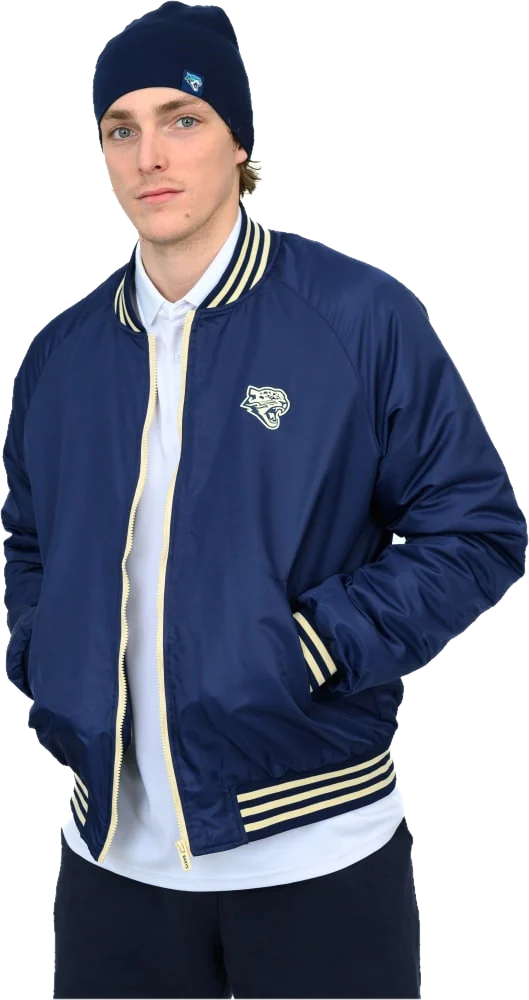
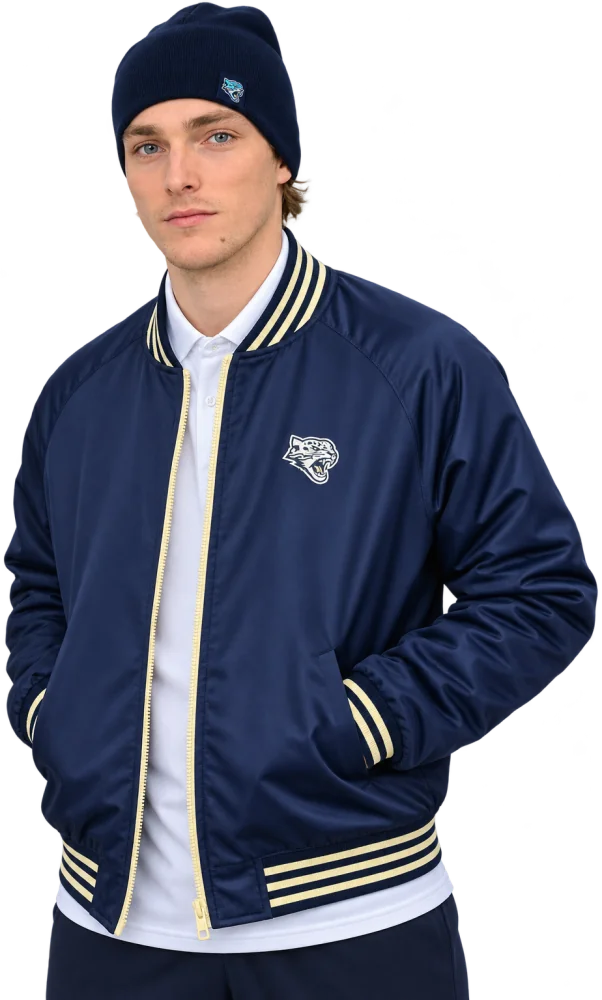
feat: new product photo cutouts; puck and home jersey use photos
- Replace cap, bomber, down jacket and shopping-bag cutouts with the new
  shots (trimmed to the subject, long side 1000 px, WebP q85, lossless alpha);
  PH holds the new pixel sizes.
- Wire new photos: home jersey 25/26 (navy) and both pucks. The signed puck
  keeps its autograph strokes, drawn over the photo.
- Re-aim design-card callouts to the new framing.
- Collection 25/26: drop the second cap card (03); grid is now
  cap + bomber, bag + down jacket, renumbered 01-04.
- Card swatches: the selected ring lines up with the title and price.
- Remove the unused originals in assets/ph/*.jpg.

diff --git a/index.html b/index.html
@@ -518,13 +518,14 @@ html[lang="kk"] .hero-title{font-size:min(64px,8.6cqi)}
 .card-rating{align-items:center;gap:6px}
 .card-rating .ic{width:14px;height:14px;fill:currentColor;stroke:none}
 .card-rating b{font-weight:600;color:var(--text-1)}
-.swatches{display:flex;align-items:center;height:20px;margin-left:-5px}
+/* the selected ring (1.5px outline + 2px offset) lines up with the text: hit-area inset minus 3.5px */
+.swatches{display:flex;align-items:center;height:20px;margin-left:-1.5px}
 .sw{position:relative;width:20px;height:20px;display:grid;place-items:center;border-radius:50%}
 .sw::before{content:"";width:10px;height:10px;border-radius:50%;background:var(--c);box-shadow:inset 0 0 0 1px var(--border)}
 .sw[aria-pressed="true"]::before{outline:1.5px solid var(--text-1);outline-offset:2px}
 .sw-more{margin-left:var(--sp-1);font-size:var(--fs-1);color:var(--text-2)}
 /* touch: same 10px dot, 32px tap area */
-@media (pointer:coarse){.swatches{height:32px;margin-left:-11px}.sw{width:32px;height:32px}}
+@media (pointer:coarse){.swatches{height:32px;margin-left:-7.5px}.sw{width:32px;height:32px}}
 .card-foot{display:flex;align-items:center;justify-content:space-between;gap:var(--sp-2)}
 .price{display:flex;align-items:baseline;flex-wrap:wrap;gap:0 var(--sp-2)}
 .price b{font-size:var(--fs-2);font-weight:600;font-variant-numeric:tabular-nums;white-space:nowrap}
@@ -615,26 +616,11 @@ html[lang="kk"] .hero-title{font-size:min(64px,8.6cqi)}
 .dc-cap1 .dc-shot::after{content:"";position:absolute;z-index:-1;left:12%;right:6%;bottom:-10%;height:16%;border-radius:50%;background:radial-gradient(closest-side,rgba(0,6,20,.6),transparent)}
 
 /* 02 bomber: fashion editorial. Deep navy, softbox from above, VARSITY set vertical */
-.dc-bomber{grid-row:span 2;background:linear-gradient(160deg,#103472 0%,#061A3F 55%,#030D22 100%)}
+.dc-bomber{background:linear-gradient(160deg,#103472 0%,#061A3F 55%,#030D22 100%)}
 .dc-bomber .fx-softbox{right:-35%;top:-22%;width:100%;aspect-ratio:1;border-radius:50%;background:radial-gradient(closest-side,rgba(207,224,243,.32),transparent)}
 .dc-bomber .fx-word{left:var(--sp-4);top:var(--sp-5);writing-mode:vertical-rl;transform:rotate(180deg);font:800 112px/.9 var(--font-display);color:transparent;-webkit-text-stroke:1.5px rgba(255,255,255,.16)}
 .dc-bomber .dc-shot{--ty:0%;top:auto;bottom:0;width:min(92cqw,98cqh * var(--ar))}
 .dc-bomber .dc-shot img{-webkit-mask-image:linear-gradient(#000 80%,transparent);mask-image:linear-gradient(#000 80%,transparent);filter:drop-shadow(0 20px 40px rgba(0,0,0,.45))}
-
-/* 03 cap: bold graphic. Saturated blue, type rows, white band, hard offset shadow */
-.dc-cap2{background:linear-gradient(115deg,#0C3A88 0%,#1667C6 48%,#3FB0E6 100%)}
-.dc-cap2 .fx-rows{inset:-30% -20%;-webkit-mask-image:linear-gradient(90deg,transparent 30%,#000 62%);mask-image:linear-gradient(90deg,transparent 30%,#000 62%);display:flex;flex-direction:column;justify-content:center;transform:rotate(-12deg)}
-.dc-cap2 .fx-rows span{position:static;font:800 84px/1.02 var(--font-display);white-space:nowrap;color:rgba(255,255,255,.07);animation:dcDrift 40s linear infinite alternate}
-.dc-cap2 .fx-rows span:nth-child(odd){color:transparent;-webkit-text-stroke:1.5px rgba(255,255,255,.22);animation-direction:alternate-reverse}
-.dc-cap2 .fx-band{left:58%;top:-30%;width:20%;height:160%;background:#FFFFFF;transform:rotate(16deg)}
-.dc-cap2 .macro{--tx:-44%;--rot:9deg;--zoom:1.18;width:min(104cqw,90cqh * var(--ar))}
-.dc-cap2 .macro img{filter:drop-shadow(16px 20px 0 rgba(5,20,52,.38))}
-@keyframes dcDrift{to{transform:translateX(-240px)}}
-.dc-pair{display:flex;align-items:center;gap:var(--sp-2);flex-wrap:wrap}
-.dc-pair span{flex-basis:100%;font-size:var(--fs-1);font-weight:700;letter-spacing:.1em;text-transform:uppercase;color:var(--text-2)}
-.dc-pair button{width:var(--h-3);height:var(--h-3);padding:6px;border-radius:50%;background:#EEF1F5;box-shadow:0 0 0 2px rgba(255,255,255,0);transition:transform var(--dur-2) var(--ease)}
-.dc-pair button svg{width:100%;height:100%}
-@media (hover:hover){.dc-pair button:hover{transform:translateY(-3px)}}
 
 /* 04 down jacket: cold tech. Frost gradient, raking light, −30° type, falling snow */
 .dc-coat,.dc-bag{
@@ -650,7 +636,7 @@ html[lang="kk"] .hero-title{font-size:min(64px,8.6cqi)}
 .dc-coat .dc-shot{--ty:0%;top:auto;bottom:0;width:min(92cqw,96cqh * var(--ar))}
 .dc-coat .dc-shot img{-webkit-mask-image:linear-gradient(#000 82%,transparent);mask-image:linear-gradient(#000 82%,transparent);filter:drop-shadow(0 26px 36px rgba(10,42,92,.38))}
 
-/* 05 bag: retail moment. Light wall, top spotlight, floor with reflection */
+/* 03 bag: retail moment. Light wall, top spotlight, floor with reflection */
 .dc-bag{--pin:rgba(10,42,92,.85);background:linear-gradient(180deg,#E6EFF8 0%,#F5F9FC 100%)}
 .dc-bag .fx-light{left:50%;top:-6%;width:120%;height:80%;transform:translateX(-50%);background:radial-gradient(50% 70% at 50% 0%,#FFFFFF,transparent 72%)}
 .dc-bag .dc-stage::before{content:"";position:absolute;left:0;right:0;bottom:0;height:22%;background:linear-gradient(#C9DBEC,rgba(201,219,236,0));border-top:1px solid rgba(10,42,92,.12)}
@@ -660,12 +646,11 @@ html[lang="kk"] .hero-title{font-size:min(64px,8.6cqi)}
 .dc-mirror{position:absolute;left:50%;top:78%;--ar:1.19;aspect-ratio:var(--ar);transform:translateX(-50%) scaleY(-1);opacity:.16;-webkit-mask-image:linear-gradient(to top,#000,transparent 45%);mask-image:linear-gradient(to top,#000,transparent 45%)}
 .dc-mirror img{width:100%;height:100%}
 
-/* layout: three wide cards on the left, bomber and bag on the right */
+/* layout: cap + bomber, then bag + down jacket */
 .dc-cap1{grid-column:1/8;grid-row:1}
-.dc-bomber{grid-column:8/13;grid-row:1/3}
-.dc-cap2{grid-column:1/8;grid-row:2}
-.dc-bag{grid-column:1/6;grid-row:3;min-height:680px}
-.dc-coat{grid-column:6/13;grid-row:3}
+.dc-bomber{grid-column:8/13;grid-row:1;min-height:680px}
+.dc-bag{grid-column:1/6;grid-row:2;min-height:680px}
+.dc-coat{grid-column:6/13;grid-row:2}
 @media (min-width:768px){
   .dc.wide,.dc-coat{grid-template-columns:minmax(0,1fr) minmax(0,1.1fr);grid-template-rows:1fr}
   :is(.dc.wide,.dc-coat) .dc-copy{grid-area:1/1;justify-content:flex-end}
@@ -677,7 +662,7 @@ html[lang="kk"] .hero-title{font-size:min(64px,8.6cqi)}
   .dc{grid-column:auto!important;grid-row:auto!important}
   .dc.wide,.dc-coat{grid-column:1/-1!important;min-height:440px}
   .dc-bomber,.dc-bag{min-height:640px}
-  .dc-cap2{order:1}.dc-coat{order:2}
+  .dc-coat{order:2}
 }
 @media (max-width:767px){
   .drop{grid-template-columns:minmax(0,1fr)}
@@ -690,7 +675,6 @@ html[lang="kk"] .hero-title{font-size:min(64px,8.6cqi)}
   .dc-cap1 .dc-shot{width:min(82cqw,78cqh * var(--ar))}
   .dc-bomber .fx-word{font-size:84px}
   .dc-coat .fx-temp{font-size:120px}
-  .dc-cap2 .fx-band{left:56%;top:-20%;height:62%}
 }
 
 /* ── shop page ────────────────────────────────────────── */
@@ -953,7 +937,7 @@ html[lang="kk"] .hero-title{font-size:min(64px,8.6cqi)}
   .hero-float{animation:none!important}
   .hero-px{transform:none;transition:none}
   .dc-coat .fx-snow i{animation:none;top:var(--y)}
-  .dc-pin i::after,.dc-cap2 .fx-rows span{animation:none}
+  .dc-pin i::after{animation:none}
 }
 </style>
 </head>
@@ -1546,7 +1530,7 @@ const RAW_KZ = [
 ];
 // [name, team, cat, art, price, oldPrice, colors, sizes, rating, reviews, stock, flags, subtitle, extra]
 const RAW = [
-  ['Игровое джерси BARYS 25/26 (домашняя)', 'barys', 'jersey', 'jersey', 34990, 0, ['navy'], SZ('S', '3XL'), 4.9, 212, 40, 'new hit', 'Домашняя форма сезона, вышитая эмблема', { num: 17 }],
+  ['Игровое джерси BARYS 25/26 (домашняя)', 'barys', 'jersey', 'jersey', 34990, 0, ['navy'], SZ('S', '3XL'), 4.9, 212, 40, 'new hit', 'Домашняя форма сезона, вышитая эмблема', { num: 17, photo: { navy: 'jersey' } }],
   ['Игровое джерси BARYS 25/26 (гостевая)', 'barys', 'jersey', 'jersey', 34990, 0, ['white'], SZ('S', '3XL'), 4.8, 148, 25, 'new', 'Гостевой комплект, дышащая сетка', { num: 91 }],
   ['Ретро-джерси BARYS 1999', 'barys', 'jersey', 'jersey', 29990, 37490, ['cyan'], SZ('M', 'XXL'), 4.7, 64, 4, '', 'Лимитированная серия к юбилею клуба', { num: 99 }],
   ['Худи «Снежный барс»', 'barys', 'hoodie', 'hoodie', 24990, 0, ['navy', 'grey', 'black'], SZ('XS', '3XL'), 4.8, 301, 60, 'hit', 'Плотный футер 380 г/м², вышивка'],
@@ -1563,8 +1547,8 @@ const RAW = [
   ['Брелок «Барыс»', 'barys', 'souvenirs', 'keychain', 1990, 0, ['navy', 'cyan'], [], 4.7, 88, 4, '', 'Металл, эмаль, карабин'],
   ['Детское джерси BARYS', 'barys', 'kids', 'jersey', 19990, 0, ['navy', 'white'], ['XS', 'S', 'M'], 4.9, 64, 26, 'new', 'Как у взрослых, только меньше', { num: 1 }],
   ['Детская шапка «Барсёнок»', 'barys', 'kids', 'beanie', 4990, 5990, ['ice', 'cyan'], [], 4.8, 39, 18, '', 'С помпоном и мягким отворотом'],
-  ['Шайба коллекционная BARYS', 'barys', 'gear', 'puck', 2990, 0, ['black'], [], 4.9, 256, 150, 'hit', 'Официальная игровая шайба'],
-  ['Шайба с автографами команды', 'barys', 'gear', 'puck', 14990, 0, ['black'], [], 5.0, 9, 2, 'new', 'Подписи игроков основного состава', { sign: true }],
+  ['Шайба коллекционная BARYS', 'barys', 'gear', 'puck', 2990, 0, ['black'], [], 4.9, 256, 150, 'hit', 'Официальная игровая шайба', { photo: { black: 'puck' } }],
+  ['Шайба с автографами команды', 'barys', 'gear', 'puck', 14990, 0, ['black'], [], 5.0, 9, 2, 'new', 'Подписи игроков основного состава', { sign: true, photo: { black: 'puck' } }],
   ['Клюшка сувенирная мини', 'barys', 'gear', 'stick', 5990, 0, ['navy', 'white'], [], 4.6, 44, 30, '', 'Длина 45 см, подарочная упаковка'],
   ['Клюшка игровая Barys Pro SR', 'barys', 'gear', 'stick', 64990, 79990, ['black'], [], 4.8, 17, 6, '', 'Карбон, загиб P92, флекс 75'],
   ['Бомбер BARYS Varsity', 'barys', 'hoodie', 'bomber', 44990, 0, ['navy', 'black'], SZ('S', 'XXL'), 4.9, 36, 20, 'new hit', 'Сатин, рибана в полоску, вышитый барс', { num: 99, photo: { navy: 'bomberblue' } }],
@@ -1860,15 +1844,17 @@ function bagSVG() {
     ${T(100, 160, 8.5, '#FFFFFF', 'BARYS STORE', 'letter-spacing="3"')}
   </svg>`;
 }
-/* Product photos: background-free cutouts in assets/ph/cut (originals in assets/ph).
+/* Product photos: background-free cutouts in assets/ph/cut, trimmed to the subject.
    A product shows its photo for the colour that was shot, the illustration for the others. */
-const PH = { cap: [744, 552], bomberblue: [529, 1000], coat: [494, 1000], bag: [539, 452] };
+const PH = { cap: [1000, 773], bomberblue: [602, 1000], coat: [640, 1000], bag: [967, 1000], jersey: [793, 1000], puck: [1000, 849] };
+// the puck photo has no autographs: the signed puck draws them over the face (viewBox units)
+const PH_SIGN = '<path d="M64 76 q6 -9 12 -1 t12 -3 t10 2 M144 60 q5 -7 10 -1 t9 -3 M150 94 q7 -8 13 0 t11 -4 M72 150 q9 6 17 -2 t15 0 M118 158 q6 -7 12 -1 t10 -3 t10 3" stroke="#E7C27A" stroke-width="1.6" fill="none" stroke-linecap="round"/>';
 const phSrc = k => `assets/ph/cut/${k}.webp`;
 function photoSVG(p, k, view) {
   const [w, h] = PH[k], s = 200 / Math.max(w, h), iw = w * s, ih = h * s;
   // "another angle" = a closer crop on the upper-middle of the shot (crest, embroidery)
   const vb = view === 'back' ? '45 30 110 110' : '0 0 200 200';
-  return `<svg class="ph" viewBox="${vb}" role="img" aria-label="${esc(pn(p))}${view === 'back' ? L(', деталь', ', бөлшек', ', detail') : ''}"><image href="${phSrc(k)}" x="${(200 - iw) / 2}" y="${(200 - ih) / 2}" width="${iw}" height="${ih}"/></svg>`;
+  return `<svg class="ph" viewBox="${vb}" role="img" aria-label="${esc(pn(p))}${view === 'back' ? L(', деталь', ', бөлшек', ', detail') : ''}"><image href="${phSrc(k)}" x="${(200 - iw) / 2}" y="${(200 - ih) / 2}" width="${iw}" height="${ih}"/>${p.extra.sign ? PH_SIGN : ''}</svg>`;
 }
 function artSVG(p, colorKey, view = 'front', custom) {
   const ph = !custom && p.extra.photo && p.extra.photo[colorKey || p.colors[0]];
@@ -2116,28 +2102,20 @@ function dcFoot(id) {
 }
 const snow = n => Array.from({ length: n }, (_, i) => `<i style="--x:${(i * 37) % 100}%;--y:${(i * 53) % 90}%;--s:${4 + (i * 7) % 6}px;--t:${7 + (i * 3) % 6}s;--dl:${-(i * 1.3).toFixed(1)}s"></i>`).join('');
 function renderPicks() {
-  const pair = ['p4', 'p22', 'p6'];
   $('#picksGrid').innerHTML = `
   <article class="dc dc-cap1 wide rv" aria-label="${esc(pn(PMAP.p10))}">
     <div class="dc-fx" aria-hidden="true"><i class="fx-streak"></i><i class="fx-spot"></i><span class="fx-no">01</span><i class="fx-floor"></i></div>
-    <div class="dc-stage">${dcShot('cap', [[52, 37, L('3D-вышивка', '3D кестелеу', '3D embroidery')], [80, 86, L('Изогнутый козырёк', 'Иілген күнқағар', 'Curved visor'), 'l'], [13, 58, L('Хлопковый твил', 'Мақта твил', 'Cotton twill'), 'lw']])}</div>
+    <div class="dc-stage">${dcShot('cap', [[54, 40, L('3D-вышивка', '3D кестелеу', '3D embroidery')], [80, 86, L('Изогнутый козырёк', 'Иілген күнқағар', 'Curved visor'), 'l'], [13, 58, L('Хлопковый твил', 'Мақта твил', 'Cotton twill'), 'lw']])}</div>
     <div class="dc-copy">${dcHead('01', L('Кепка · Streetwear', 'Кепка · Streetwear', 'Cap · Streetwear'), L('Барс на первом плане', 'Барыс алдыңғы қатарда', 'The leopard up front'), L('Объёмная вышивка, плотный хлопок и козырёк, который держит форму с первого дня.', 'Көлемді кестелеу, тығыз мақта және бірінші күннен пішінін сақтайтын күнқағар.', 'Raised embroidery, dense cotton and a visor that holds its shape from day one.'))}${dcFoot('p10')}</div>
   </article>
   <article class="dc dc-bomber rv" style="--d:1" aria-label="${esc(pn(PMAP.p22))}">
     <div class="dc-fx" aria-hidden="true"><i class="fx-softbox"></i><span class="fx-word">VARSITY</span></div>
-    <div class="dc-stage">${dcShot('bomberblue', [[46, 40, L('Вышитый барс', 'Кестеленген барыс', 'Embroidered crest'), 'l'], [52, 22, L('Рибана в полоску', 'Жолақты рибана', 'Striped rib')], [80, 52, L('Сатин с блеском', 'Жылтыр атлас', 'Satin shell'), 'l']])}</div>
+    <div class="dc-stage">${dcShot('bomberblue', [[51, 45, L('Вышитый барс', 'Кестеленген барыс', 'Embroidered crest'), 'l'], [47, 29, L('Рибана в полоску', 'Жолақты рибана', 'Striped rib')], [80, 52, L('Сатин с блеском', 'Жылтыр атлас', 'Satin shell'), 'l']])}</div>
     <div class="dc-copy">${dcHead('02', L('Бомбер · City', 'Бомбер · City', 'Bomber · City'), L('Город тоже арена', 'Қала да — арена', 'The city is an arena too'), L('Гладкий сатин, полосатая рибана, металлическая молния. Его носят и те, кто не смотрит хоккей.', 'Тегіс атлас, жолақты рибана, металл сыдырма. Хоккей көрмейтіндер де киеді.', 'Smooth satin, striped rib, metal zip. Worn even by people who never watch hockey.'))}${dcFoot('p22')}</div>
-  </article>
-  <article class="dc dc-cap2 wide rv" aria-label="${esc(pn(PMAP.p10))}">
-    <div class="dc-fx" aria-hidden="true"><div class="fx-rows">${'<span>BARYS BARYS BARYS BARYS</span>'.repeat(6)}</div><i class="fx-band"></i></div>
-    <div class="dc-stage">${dcShot('cap', [], 'macro')}</div>
-    <div class="dc-copy">${dcHead('03', L('Кепка · Style', 'Кепка · Style', 'Cap · Style'), L('Носи как хочешь', 'Қалай қаласаң, солай ки', 'Wear it your way'), L('С худи на матч, с бомбером в город, с футболкой на лёд. Одна кепка, три образа.', 'Матчқа худимен, қалаға бомбермен, мұзға футболкамен. Бір кепка, үш образ.', 'With a hoodie to the game, a bomber in town, a tee on the ice. One cap, three looks.'))}
-      <div class="dc-pair"><span>${L('С чем носить', 'Немен кию керек', 'Wear it with')}</span>${pair.map(id => `<button type="button" data-action="quick" data-id="${id}" aria-label="${esc(pn(PMAP[id]))}">${artSVG(PMAP[id], PMAP[id].colors[0])}</button>`).join('')}</div>
-      ${dcFoot('p10')}</div>
   </article>
   <article class="dc dc-coat rv" aria-label="${esc(pn(PMAP.p23))}">
     <div class="dc-fx" aria-hidden="true"><i class="fx-beam"></i><span class="fx-temp">−30°</span><div class="fx-snow">${snow(18)}</div></div>
-    <div class="dc-stage">${dcShot('coat', [[30, 44, L('Стёганый утеплитель', 'Сырылған жылытқыш', 'Quilted fill'), 'lw'], [66, 17, L('Капюшон-стойка', 'Тік күләпара', 'Stand-up hood')]])}</div>
+    <div class="dc-stage">${dcShot('coat', [[30, 44, L('Стёганый утеплитель', 'Сырылған жылытқыш', 'Quilted fill'), 'lw'], [64, 25, L('Капюшон-стойка', 'Тік күләпара', 'Stand-up hood'), 'l']])}</div>
     <div class="dc-copy">${dcHead('04', L('Пуховик · −30 °C', 'Пуховик · −30 °C', 'Down jacket · −30 °C'), L('Сделан для настоящей зимы', 'Нағыз қысқа арналған', 'Built for real winter'), L('Зима длиннее сезона. Объём держит тепло, плотная ткань не пускает ветер.', 'Қыс маусымнан ұзақ. Көлем жылуды сақтайды, тығыз мата желді өткізбейді.', 'Winter outlasts the season. The loft keeps heat in, the dense shell keeps wind out.'))}
       <ul class="dc-specs"><li>${ic('snow')}${L('Утеплитель 300 г/м²', 'Жылытқыш 300 г/м²', '300 g/m² fill')}</li><li>${ic('shield')}${L('Ветрозащита', 'Желден қорғау', 'Wind-proof')}</li></ul>
       ${dcFoot('p23')}</div>
@@ -2145,7 +2123,7 @@ function renderPicks() {
   <article class="dc dc-bag rv" style="--d:1" aria-labelledby="dcBagT">
     <div class="dc-fx" aria-hidden="true"><i class="fx-light"></i><i class="fx-floor"></i></div>
     <div class="dc-stage">${dcShot('bag')}<div class="dc-mirror" aria-hidden="true"><img src="${phSrc('bag')}" alt="" loading="lazy" decoding="async"></div></div>
-    <div class="dc-copy"><p class="dc-tag"><span>05</span>${L('Barys Store · Упаковка', 'Barys Store · Қаптама', 'Barys Store · Packaging')}</p><h3 class="dc-title" id="dcBagT">${L('Покупку приятно нести', 'Сатып алғанды көтеру жағымды', 'A bag worth carrying')}</h3><p class="dc-lead">${L('Плотный матовый картон, текстильные ручки и барс в белой печати. Каждый заказ упакуем в фирменный пакет бесплатно.', 'Тығыз күңгірт картон, мата тұтқалар және ақ баспадағы барыс. Әр тапсырысты фирмалық пакетке тегін саламыз.', 'Heavy matte board, textile handles, the leopard in white print. Every order ships in it, free.')}</p>
+    <div class="dc-copy"><p class="dc-tag"><span>03</span>${L('Barys Store · Упаковка', 'Barys Store · Қаптама', 'Barys Store · Packaging')}</p><h3 class="dc-title" id="dcBagT">${L('Покупку приятно нести', 'Сатып алғанды көтеру жағымды', 'A bag worth carrying')}</h3><p class="dc-lead">${L('Плотный матовый картон, текстильные ручки и барс в белой печати. Каждый заказ упакуем в фирменный пакет бесплатно.', 'Тығыз күңгірт картон, мата тұтқалар және ақ баспадағы барыс. Әр тапсырысты фирмалық пакетке тегін саламыз.', 'Heavy matte board, textile handles, the leopard in white print. Every order ships in it, free.')}</p>
       <ul class="dc-specs"><li>${ic('package')}${L('В каждом заказе', 'Әр тапсырыста', 'In every order')}</li><li>${ic('spark')}${L('Готов к подарку', 'Сыйлыққа дайын', 'Gift-ready')}</li></ul>
       <a class="link-arrow" href="#/shop"><span>${L('Выбрать подарок', 'Сыйлық таңдау', 'Find a gift')}</span>${ic('arrow')}</a></div>
   </article>`;
